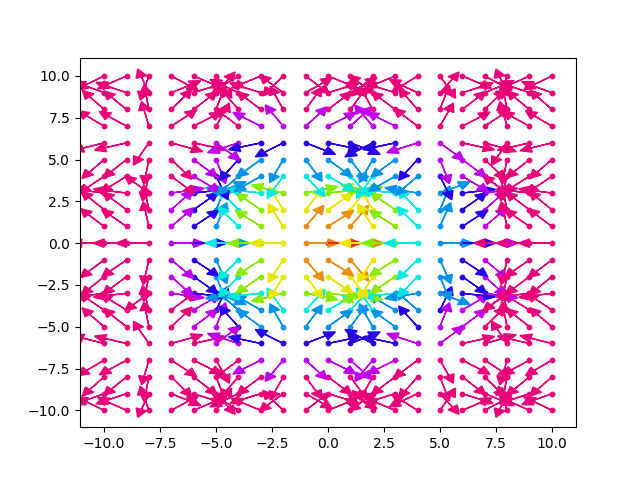
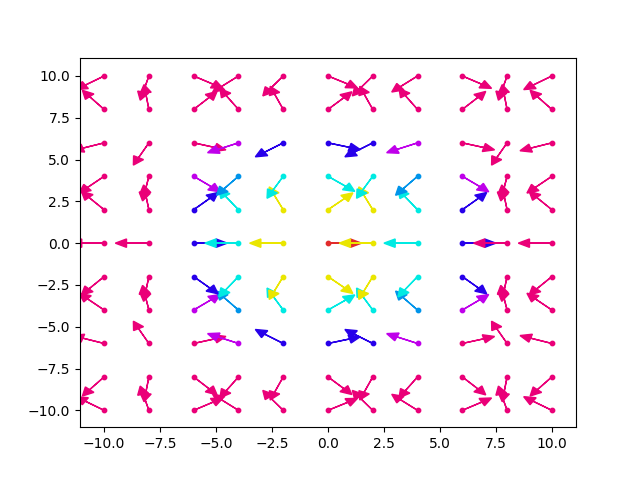
Fixing Divergence and Curl

diff --git a/index.html b/index.html
@@ -17,8 +17,6 @@
             <img src="img/vector_field.png" id="img">
         </div>
         <span id="dots"></span>
-        <span id="dots2"></span>
-
         <div class="w3-half w3-row-padding">
             <div class="w3-half">
                 <h4>F<sub>x</sub></h4>
@@ -32,7 +30,7 @@
             <div id="more">
                 <div class="w3-half w3-row-padding">
                     <h4>Skip</h4>
-                    <input class="w3-input w3-border" type="text" value="1" id="skip">
+                    <input class="w3-input w3-border" type="text" value="2" id="skip">
                 </div>
                 <div class="w3-half w3-row-padding"><h4>Bounds</h4>
                     <input class="w3-input w3-border" type="text" value="-10,10" id="bounds"></div>

diff --git a/js/get_field.js b/js/get_field.js
@@ -43,12 +43,8 @@ button2.addEventListener("click", e => {
 const button3 = document.getElementById("calc");
 button3.addEventListener("click", e => {
     console.log("HI");
-    const dots = document.getElementById("dots2");
     const moreText = document.getElementById("more2");
-    if (dots.style.display === "none") {
-        dots.style.display = "inline";
-        moreText.style.display = "none";
-    }
+    moreText.style.display = "inline";
     const x = document.getElementById("x").value;
     const y = document.getElementById("y").value;
     const fx = document.getElementById("Fx").value;

diff --git a/src/generate_graph.py b/src/generate_graph.py
@@ -1,5 +1,5 @@
 from visualizer import Visualizer
 
 v = Visualizer("cos(x)", "sin(y)")
-plt = v.plot_color(skip=1)
+plt = v.plot_color(skip=2)
 plt.savefig("./img/vector_field.png")
